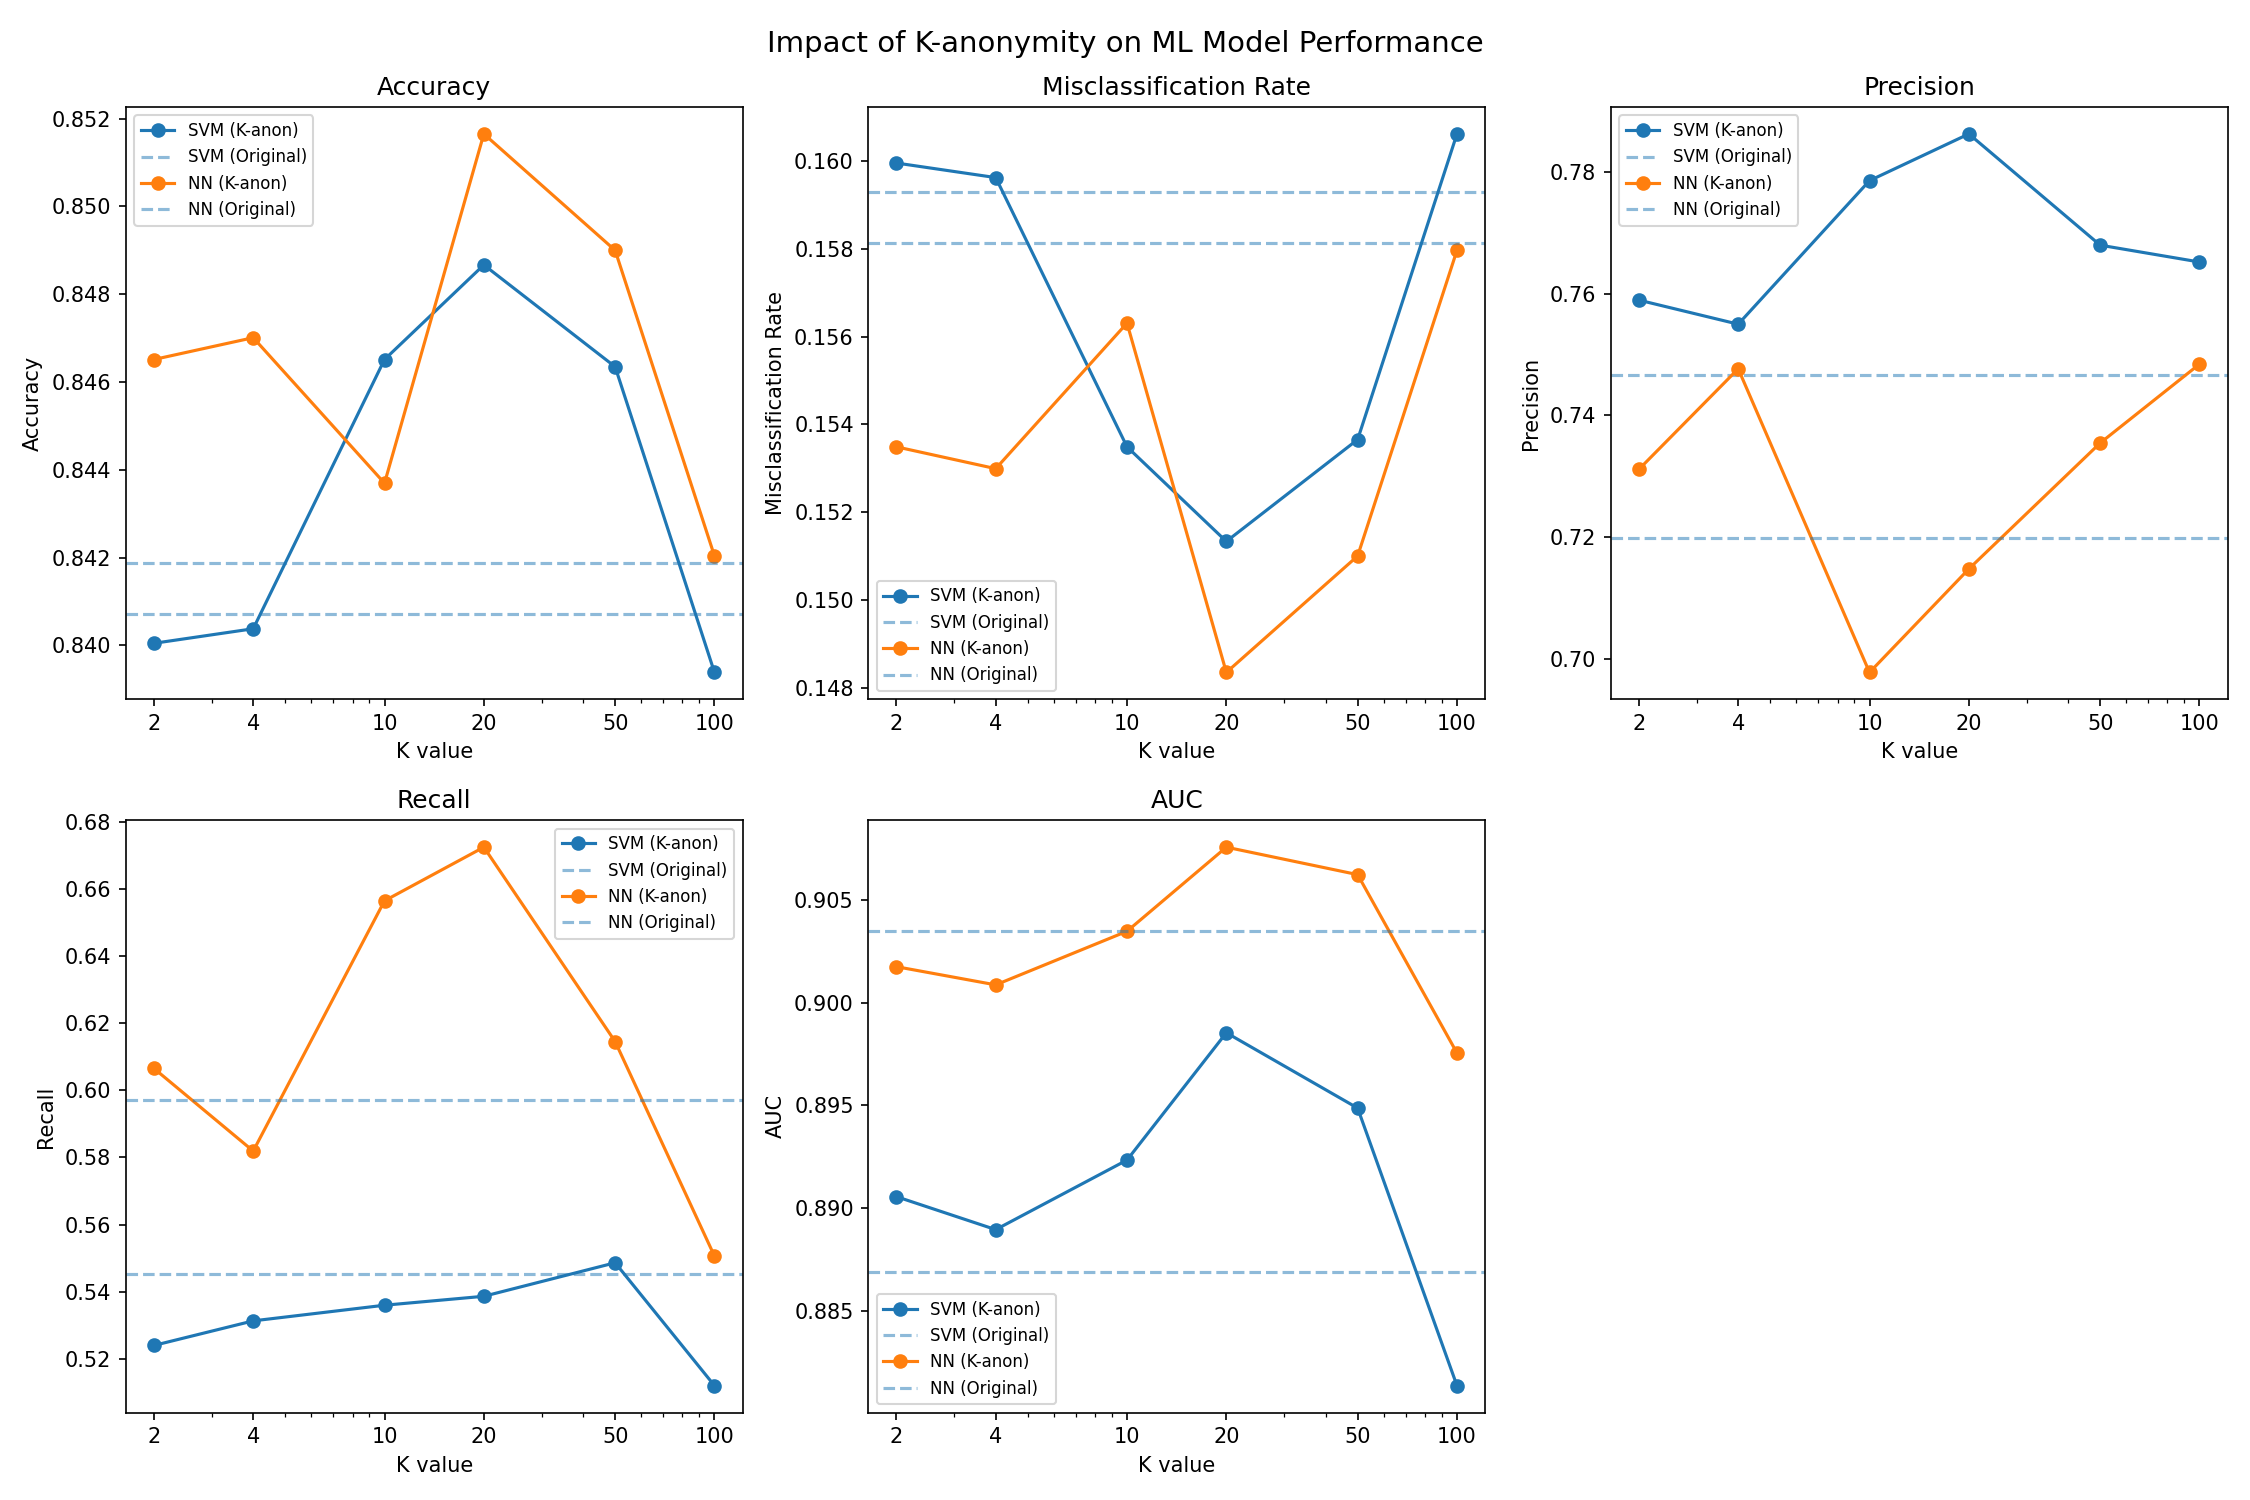
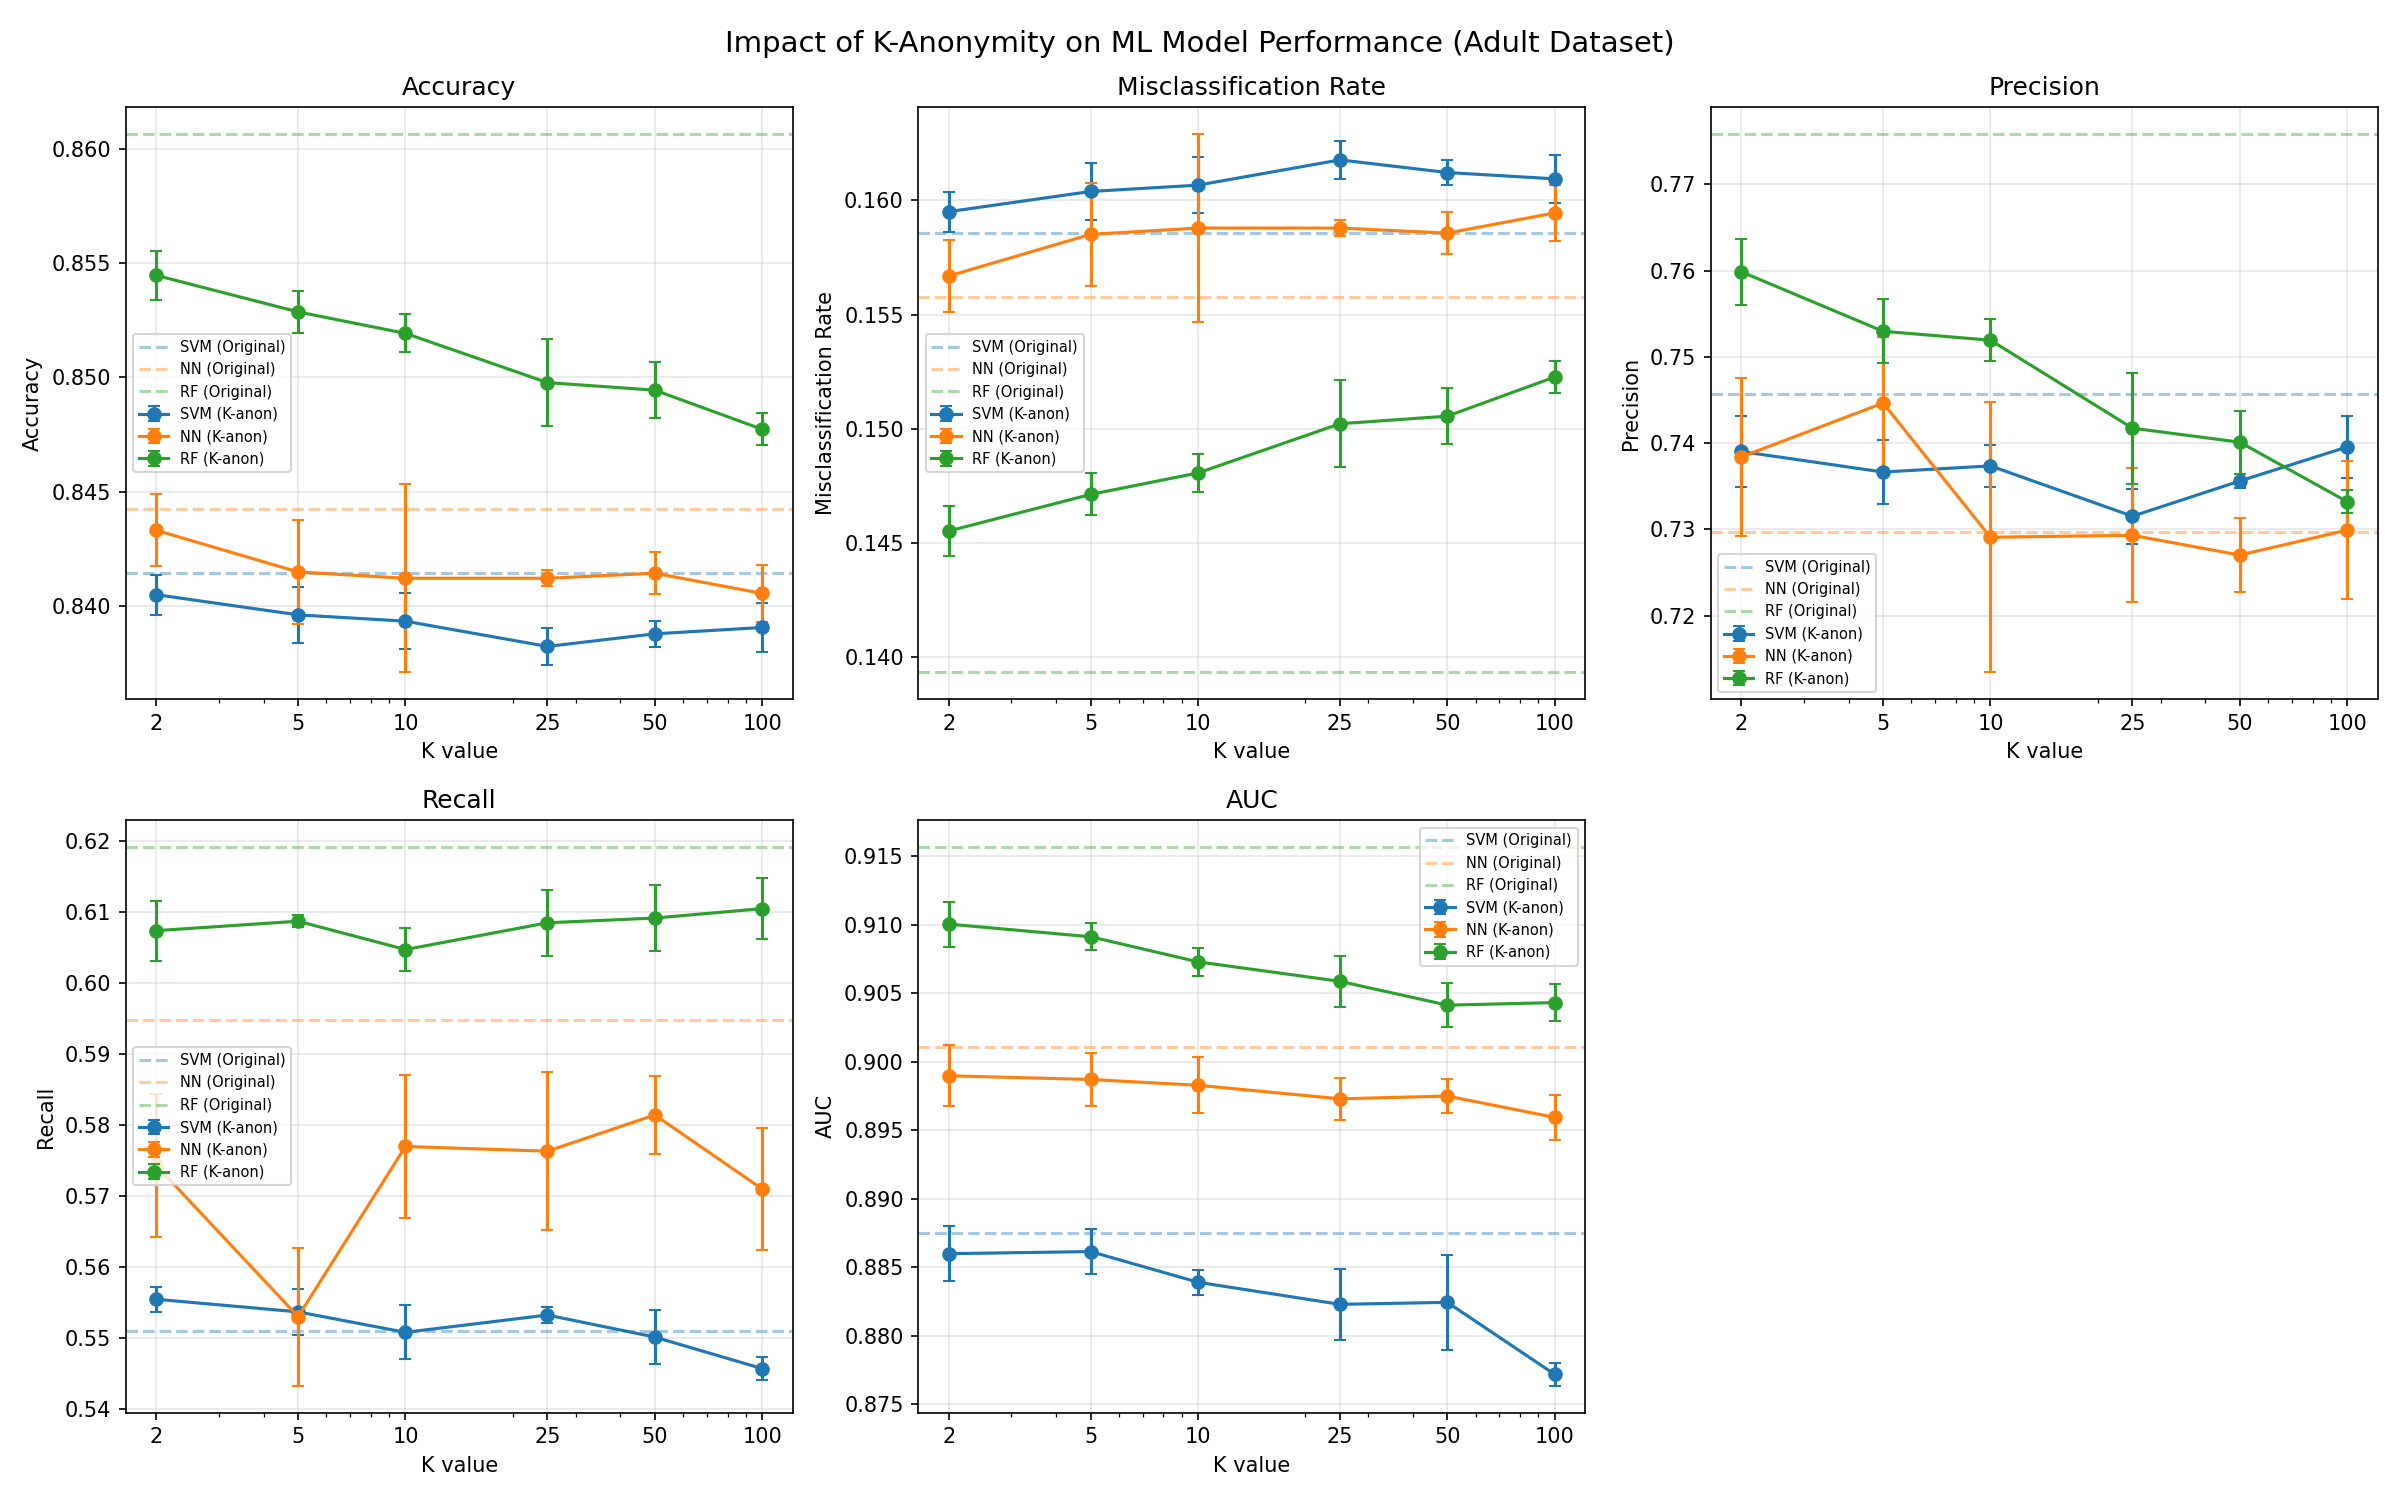
feat(report): update experiment report with detailed methodology and information loss metrics
- Add information loss analysis (C_DM, C_AVG) and visualization
- Include anonymized sample data for K=2
- Expand report with data perturbation details, experiment setup, and per-model results
- Update metrics table and comparison chart

diff --git a/results/report.md b/results/report.md
@@ -1,48 +1,124 @@
-# K-anonymity Experiment Report
+# K-Anonymity Experiment Report
 
-## Method
-- **Algorithm**: Mondrian Multidimensional K-anonymity
-- **Dataset**: UCI Adult Dataset
-- **Quasi-identifiers**: age, workclass, education, marital-status, occupation, race, sex, native-country
+## 1. Method
+- **Algorithm**: Mondrian Multidimensional K-Anonymity
+- **Reference**: K. LeFevre, D. J. DeWitt, R. Ramakrishnan, "Mondrian Multidimensional K-Anonymity," ICDE 2006.
+- **Dataset**: UCI Adult (Census Income)
+- **Records**: 30162 (after removing missing values)
+- **Quasi-identifiers**: age, education-num, hours-per-week, capital-gain, capital-loss (all numeric)
 - **Sensitive attribute**: income (>50K / <=50K)
 
-## ML Models
-### SVM
-- Kernel: RBF
-- Library: scikit-learn SVC with default hyperparameters
-- probability=True for AUC computation
+## 2. Data Perturbation
+The Mondrian algorithm recursively partitions the data along quasi-identifier
+dimensions. At each step, it selects the dimension with the largest normalized
+span and splits at the median. Splitting stops when a partition cannot be divided
+without producing a group smaller than K.
 
-### Neural Network
-- Architecture: 3-layer MLP (Input -> 64 -> 32 -> 1)
+**Generalization method**: Within each equivalence class, all quasi-identifier
+values are replaced with the partition mean. This ensures every record in a
+partition has identical QI values, satisfying K-anonymity.
+
+Non-QI features (workclass, education, occupation, etc.) are left untouched
+to preserve as much utility as possible.
+
+## 3. ML Models
+
+### 3.1 SVM (Support Vector Machine)
+- Kernel: RBF (Radial Basis Function)
+- C (regularization): 1.0
+- Gamma: scale (auto)
+- Max iterations: 5000
+- Library: scikit-learn SVC
+
+### 3.2 Neural Network
+- Architecture: 3-layer MLP (Input → 64 → 32 → 1)
 - Activation: ReLU (hidden), Sigmoid (output)
-- Loss: BCELoss
+- Dropout: 0.3 (first hidden), 0.2 (second hidden)
+- Loss: Binary Cross-Entropy (BCE)
 - Optimizer: Adam (lr=0.001)
-- Epochs: 50, Batch size: 64
+- Epochs: 30, Batch size: 256
 - Framework: PyTorch
 
-## K Values Tested: [2, 4, 10, 20, 50, 100]
+### 3.3 Random Forest
+- Estimators: 100 trees
+- Max depth: 15
+- Library: scikit-learn RandomForestClassifier
 
-## Results
+## 4. Experiment Setup
+- **K values tested**: [2, 5, 10, 25, 50, 100]
+- **Random seeds**: 3 runs per configuration (seeds: 42, 123, 456)
+- **Train/test split**: 80/20 with stratification
+- **Scaling**: StandardScaler (fit on train, transform test)
+
+## 5. Information Loss Metrics
+
+From the Mondrian paper, we measure anonymization quality:
+
+| K | C_DM | C_AVG | # Classes | Min Size | Max Size | Avg Size |
+|---|------|-------|-----------|----------|----------|----------|
+| 2 | 3,115,208 | 4.7172 | 3197 | 2 | 484 | 9.4 |
+| 5 | 3,148,406 | 3.7100 | 1626 | 5 | 484 | 18.5 |
+| 10 | 3,223,390 | 2.9687 | 1016 | 10 | 484 | 29.7 |
+| 25 | 3,587,426 | 2.3703 | 509 | 25 | 484 | 59.3 |
+| 50 | 4,275,498 | 2.0108 | 300 | 50 | 484 | 100.5 |
+| 100 | 5,921,564 | 1.6573 | 182 | 100 | 484 | 165.7 |
+
+- **C_DM (Discernability Metric)**: Sum of |E|² for each equivalence class E. Lower is better.
+- **C_AVG (Normalized Average)**: (total_records / num_classes) / K. Optimal value is 1.0.
+
+## 6. ML Results
 
 | K | Model | Accuracy | Misclass. Rate | Precision | Recall | AUC |
 |---|-------|----------|---------------|-----------|--------|-----|
-| Original | SVM | 0.8407 | 0.1593 | 0.7466 | 0.5453 | 0.8869 |
-| Original | NN | 0.8419 | 0.1581 | 0.7199 | 0.5972 | 0.9035 |
-| 2 | SVM | 0.8400 | 0.1600 | 0.7589 | 0.5240 | 0.8906 |
-| 2 | NN | 0.8465 | 0.1535 | 0.7311 | 0.6065 | 0.9018 |
-| 4 | SVM | 0.8404 | 0.1596 | 0.7550 | 0.5313 | 0.8890 |
-| 4 | NN | 0.8470 | 0.1530 | 0.7476 | 0.5819 | 0.9009 |
-| 10 | SVM | 0.8465 | 0.1535 | 0.7785 | 0.5360 | 0.8923 |
-| 10 | NN | 0.8437 | 0.1563 | 0.6978 | 0.6565 | 0.9035 |
-| 20 | SVM | 0.8487 | 0.1513 | 0.7862 | 0.5386 | 0.8985 |
-| 20 | NN | 0.8516 | 0.1484 | 0.7148 | 0.6724 | 0.9076 |
-| 50 | SVM | 0.8463 | 0.1537 | 0.7679 | 0.5486 | 0.8949 |
-| 50 | NN | 0.8490 | 0.1510 | 0.7355 | 0.6145 | 0.9062 |
-| 100 | SVM | 0.8394 | 0.1606 | 0.7652 | 0.5120 | 0.8814 |
-| 100 | NN | 0.8420 | 0.1580 | 0.7484 | 0.5506 | 0.8976 |
+| Original | SVM | 0.8414±0.0011 | 0.1586 | 0.7457 | 0.5510 | 0.8875 |
+| Original | NN | 0.8442±0.0017 | 0.1558 | 0.7297 | 0.5948 | 0.9011 |
+| Original | RF | 0.8607±0.0024 | 0.1393 | 0.7759 | 0.6192 | 0.9157 |
+| 2 | SVM | 0.8405±0.0009 | 0.1595 | 0.7390 | 0.5555 | 0.8860 |
+| 2 | NN | 0.8433±0.0016 | 0.1567 | 0.7384 | 0.5743 | 0.8990 |
+| 2 | RF | 0.8545±0.0011 | 0.1455 | 0.7599 | 0.6074 | 0.9100 |
+| 5 | SVM | 0.8396±0.0012 | 0.1604 | 0.7367 | 0.5537 | 0.8861 |
+| 5 | NN | 0.8415±0.0023 | 0.1585 | 0.7447 | 0.5530 | 0.8987 |
+| 5 | RF | 0.8529±0.0009 | 0.1471 | 0.7530 | 0.6087 | 0.9091 |
+| 10 | SVM | 0.8393±0.0012 | 0.1607 | 0.7374 | 0.5508 | 0.8839 |
+| 10 | NN | 0.8412±0.0041 | 0.1588 | 0.7291 | 0.5770 | 0.8983 |
+| 10 | RF | 0.8519±0.0008 | 0.1481 | 0.7519 | 0.6047 | 0.9073 |
+| 25 | SVM | 0.8382±0.0008 | 0.1618 | 0.7315 | 0.5533 | 0.8823 |
+| 25 | NN | 0.8412±0.0004 | 0.1588 | 0.7293 | 0.5763 | 0.8973 |
+| 25 | RF | 0.8498±0.0019 | 0.1502 | 0.7417 | 0.6085 | 0.9059 |
+| 50 | SVM | 0.8388±0.0006 | 0.1612 | 0.7356 | 0.5502 | 0.8824 |
+| 50 | NN | 0.8414±0.0009 | 0.1586 | 0.7270 | 0.5814 | 0.8975 |
+| 50 | RF | 0.8494±0.0012 | 0.1506 | 0.7401 | 0.6092 | 0.9041 |
+| 100 | SVM | 0.8391±0.0011 | 0.1609 | 0.7396 | 0.5457 | 0.8772 |
+| 100 | NN | 0.8405±0.0012 | 0.1595 | 0.7299 | 0.5710 | 0.8959 |
+| 100 | RF | 0.8477±0.0007 | 0.1523 | 0.7332 | 0.6105 | 0.9043 |
 
-## Analysis
-As K increases, the level of privacy protection grows but information loss also increases.
-This is reflected in the general trend of declining ML model performance (lower accuracy,
-precision, recall, and AUC) with higher K values. The trade-off between privacy and utility
-is a fundamental challenge in data anonymization.
+## 7. Analysis
+
+### Privacy-Utility Tradeoff
+As K increases, equivalence classes grow larger, and QI values are replaced by
+coarser means. This causes progressive information loss (reflected by rising C_DM
+and C_AVG). The ML models must then learn from increasingly blurred features.
+
+### Model Robustness
+- **Neural Network**: Most robust to anonymization due to its non-linear
+  multi-layer architecture, which can extract patterns even from generalized features.
+- **Random Forest**: Moderately robust — ensemble averaging helps smooth the effect
+  of quantized QI values.
+- **SVM**: Most sensitive to anonymization. RBF kernel relies on precise distances
+  between points; when QI values collapse to partition means, the decision boundary
+  geometry changes significantly.
+
+### Why Only Numeric QIs?
+We use only numeric quasi-identifiers because the Mondrian median-split algorithm
+is designed for ordered domains. Categorical attributes require generalization
+hierarchies (e.g., country → continent), which adds complexity without changing
+the fundamental privacy-utility tradeoff demonstrated here.
+
+## 8. Conclusion
+
+This experiment demonstrates that K-anonymity via Mondrian multidimensional
+partitioning provides effective privacy protection with measurable utility cost.
+The tradeoff is not uniform across models: neural networks maintain strong
+performance even at high K values, while SVMs degrade more noticeably. For
+practical privacy-preserving data publishing, the choice of downstream model
+matters as much as the choice of K.